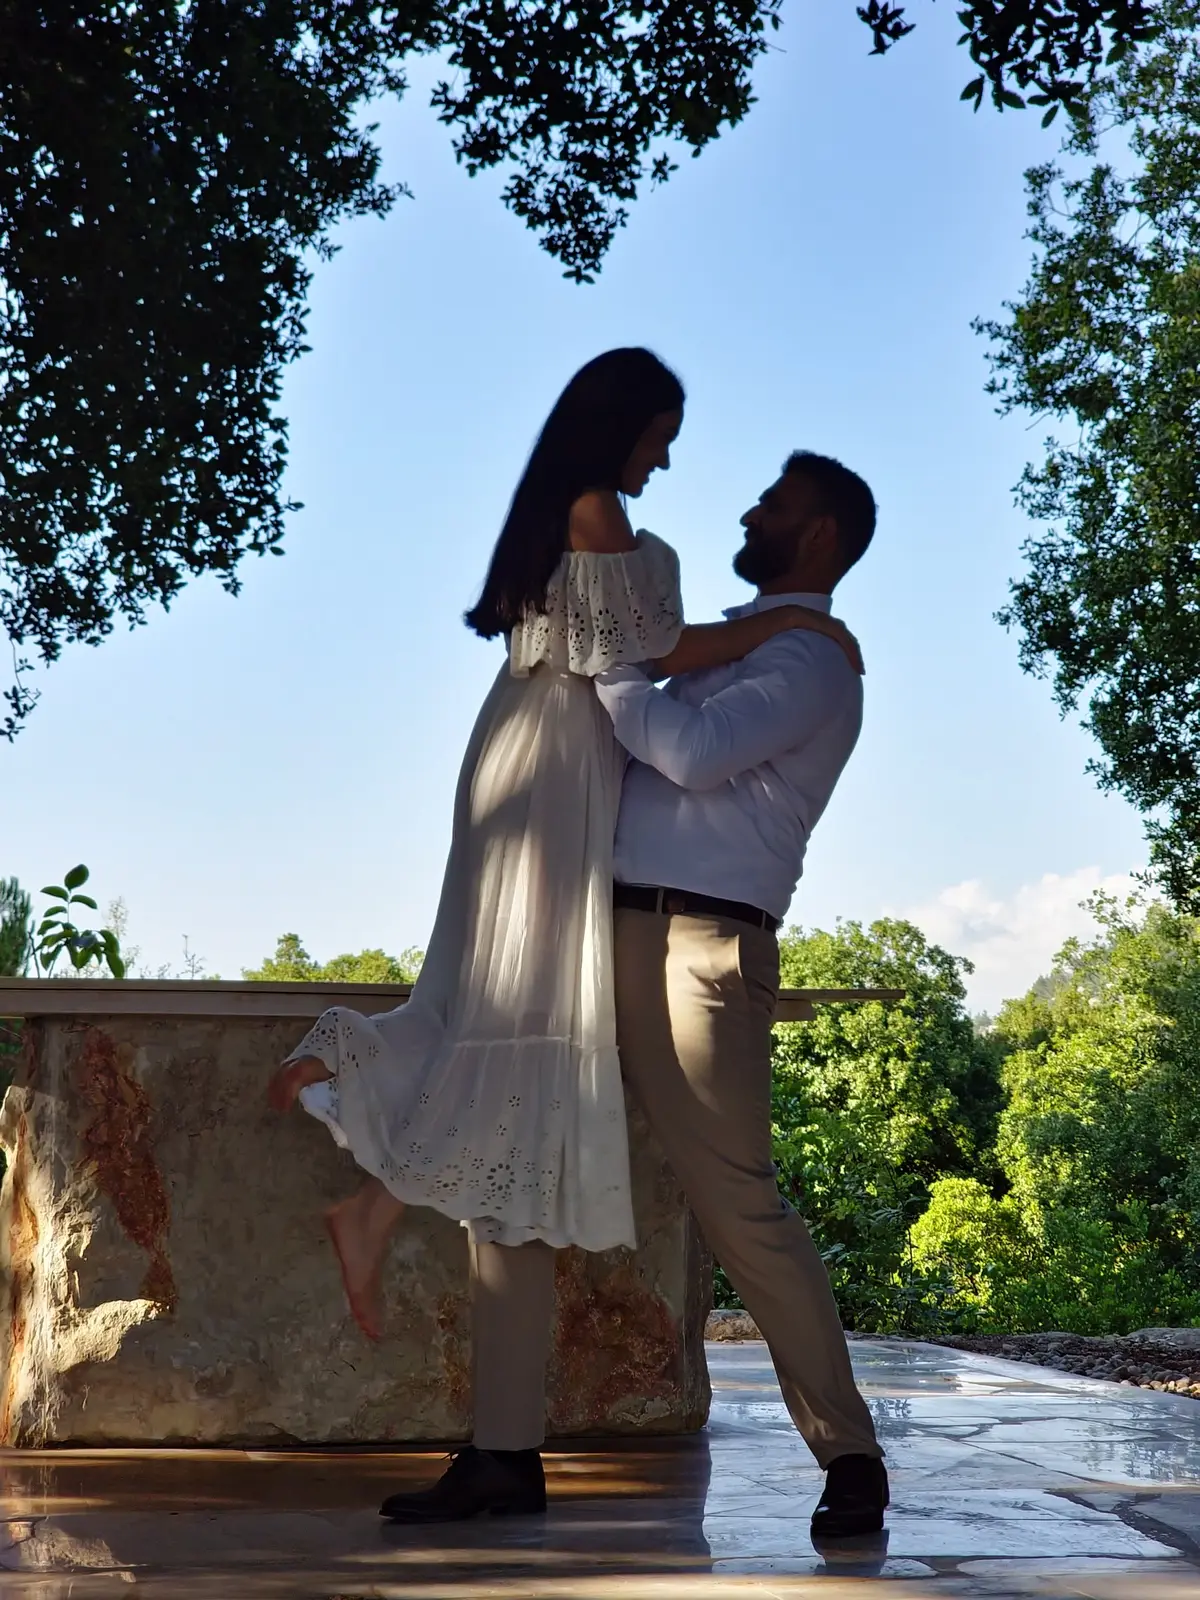
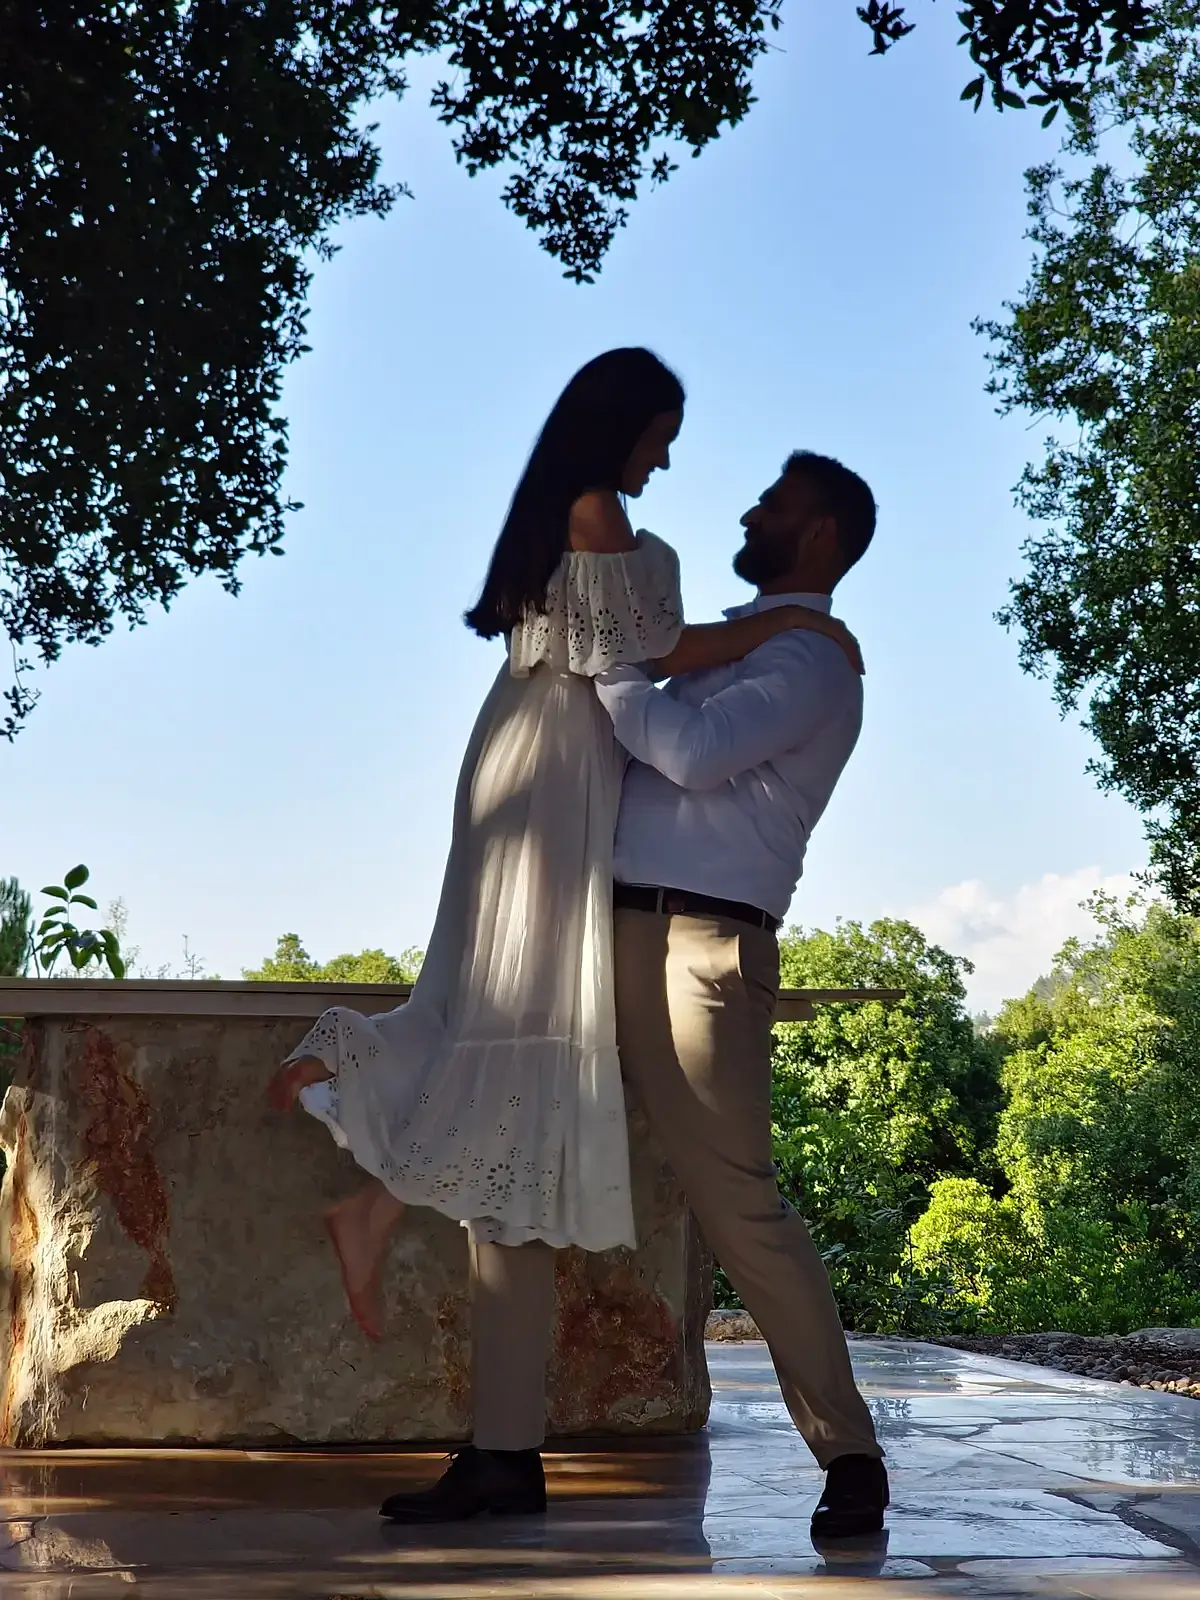
finalizing

Changed region(s): [[0.7708, 0.7812, 0.8325, 0.8125]]

diff --git a/src/components/WeddingDetails.tsx b/src/components/WeddingDetails.tsx
@@ -23,7 +23,7 @@ import coupleVenue   from "@/assets/couple-venue.webp";
  * ─── EVENT DETAILS ────────────────────────────────────────────────────────────
  */
 const COUPLE = { groom: "Elie", bride: "Christine" };
-const WEDDING_DATE_ISO = "2026-09-26T16:00:00";
+const WEDDING_DATE_ISO = "2026-09-26T19:30:00";
 const EVENTS = {
   groomHome: { mapHref: "https://maps.app.goo.gl/hDHh2ML1opzAhm1P7" },
   brideHome: { mapHref: "https://goo.gl/maps/f7JxVts1s2rhytk99?g_st=awb" },
@@ -246,7 +246,7 @@ const WeddingDetails = () => (
     <WeddingTimeline
       events={[
         {
-          time: "4:00 PM",
+          time: "12:00 PM",
           title: "Groom's Home",
           caption: "Elie gets ready with his family",
           photo: coupleWalking,
@@ -254,14 +254,14 @@ const WeddingDetails = () => (
           mapHref: EVENTS.groomHome.mapHref,
         },
         {
-          time: "4:00 PM",
+          time: "12:00 PM",
           title: "Bride's Home",
           caption: "Christine gets ready with her family",
           photo: coupleBench,
           mapHref: EVENTS.brideHome.mapHref,
         },
         {
-          time: "6:00 PM",
+          time: "7:30 PM",
           title: "Ceremony",
           caption: "Notre Dame — El Sayde Church, Fanar",
           photo: coupleHands,
